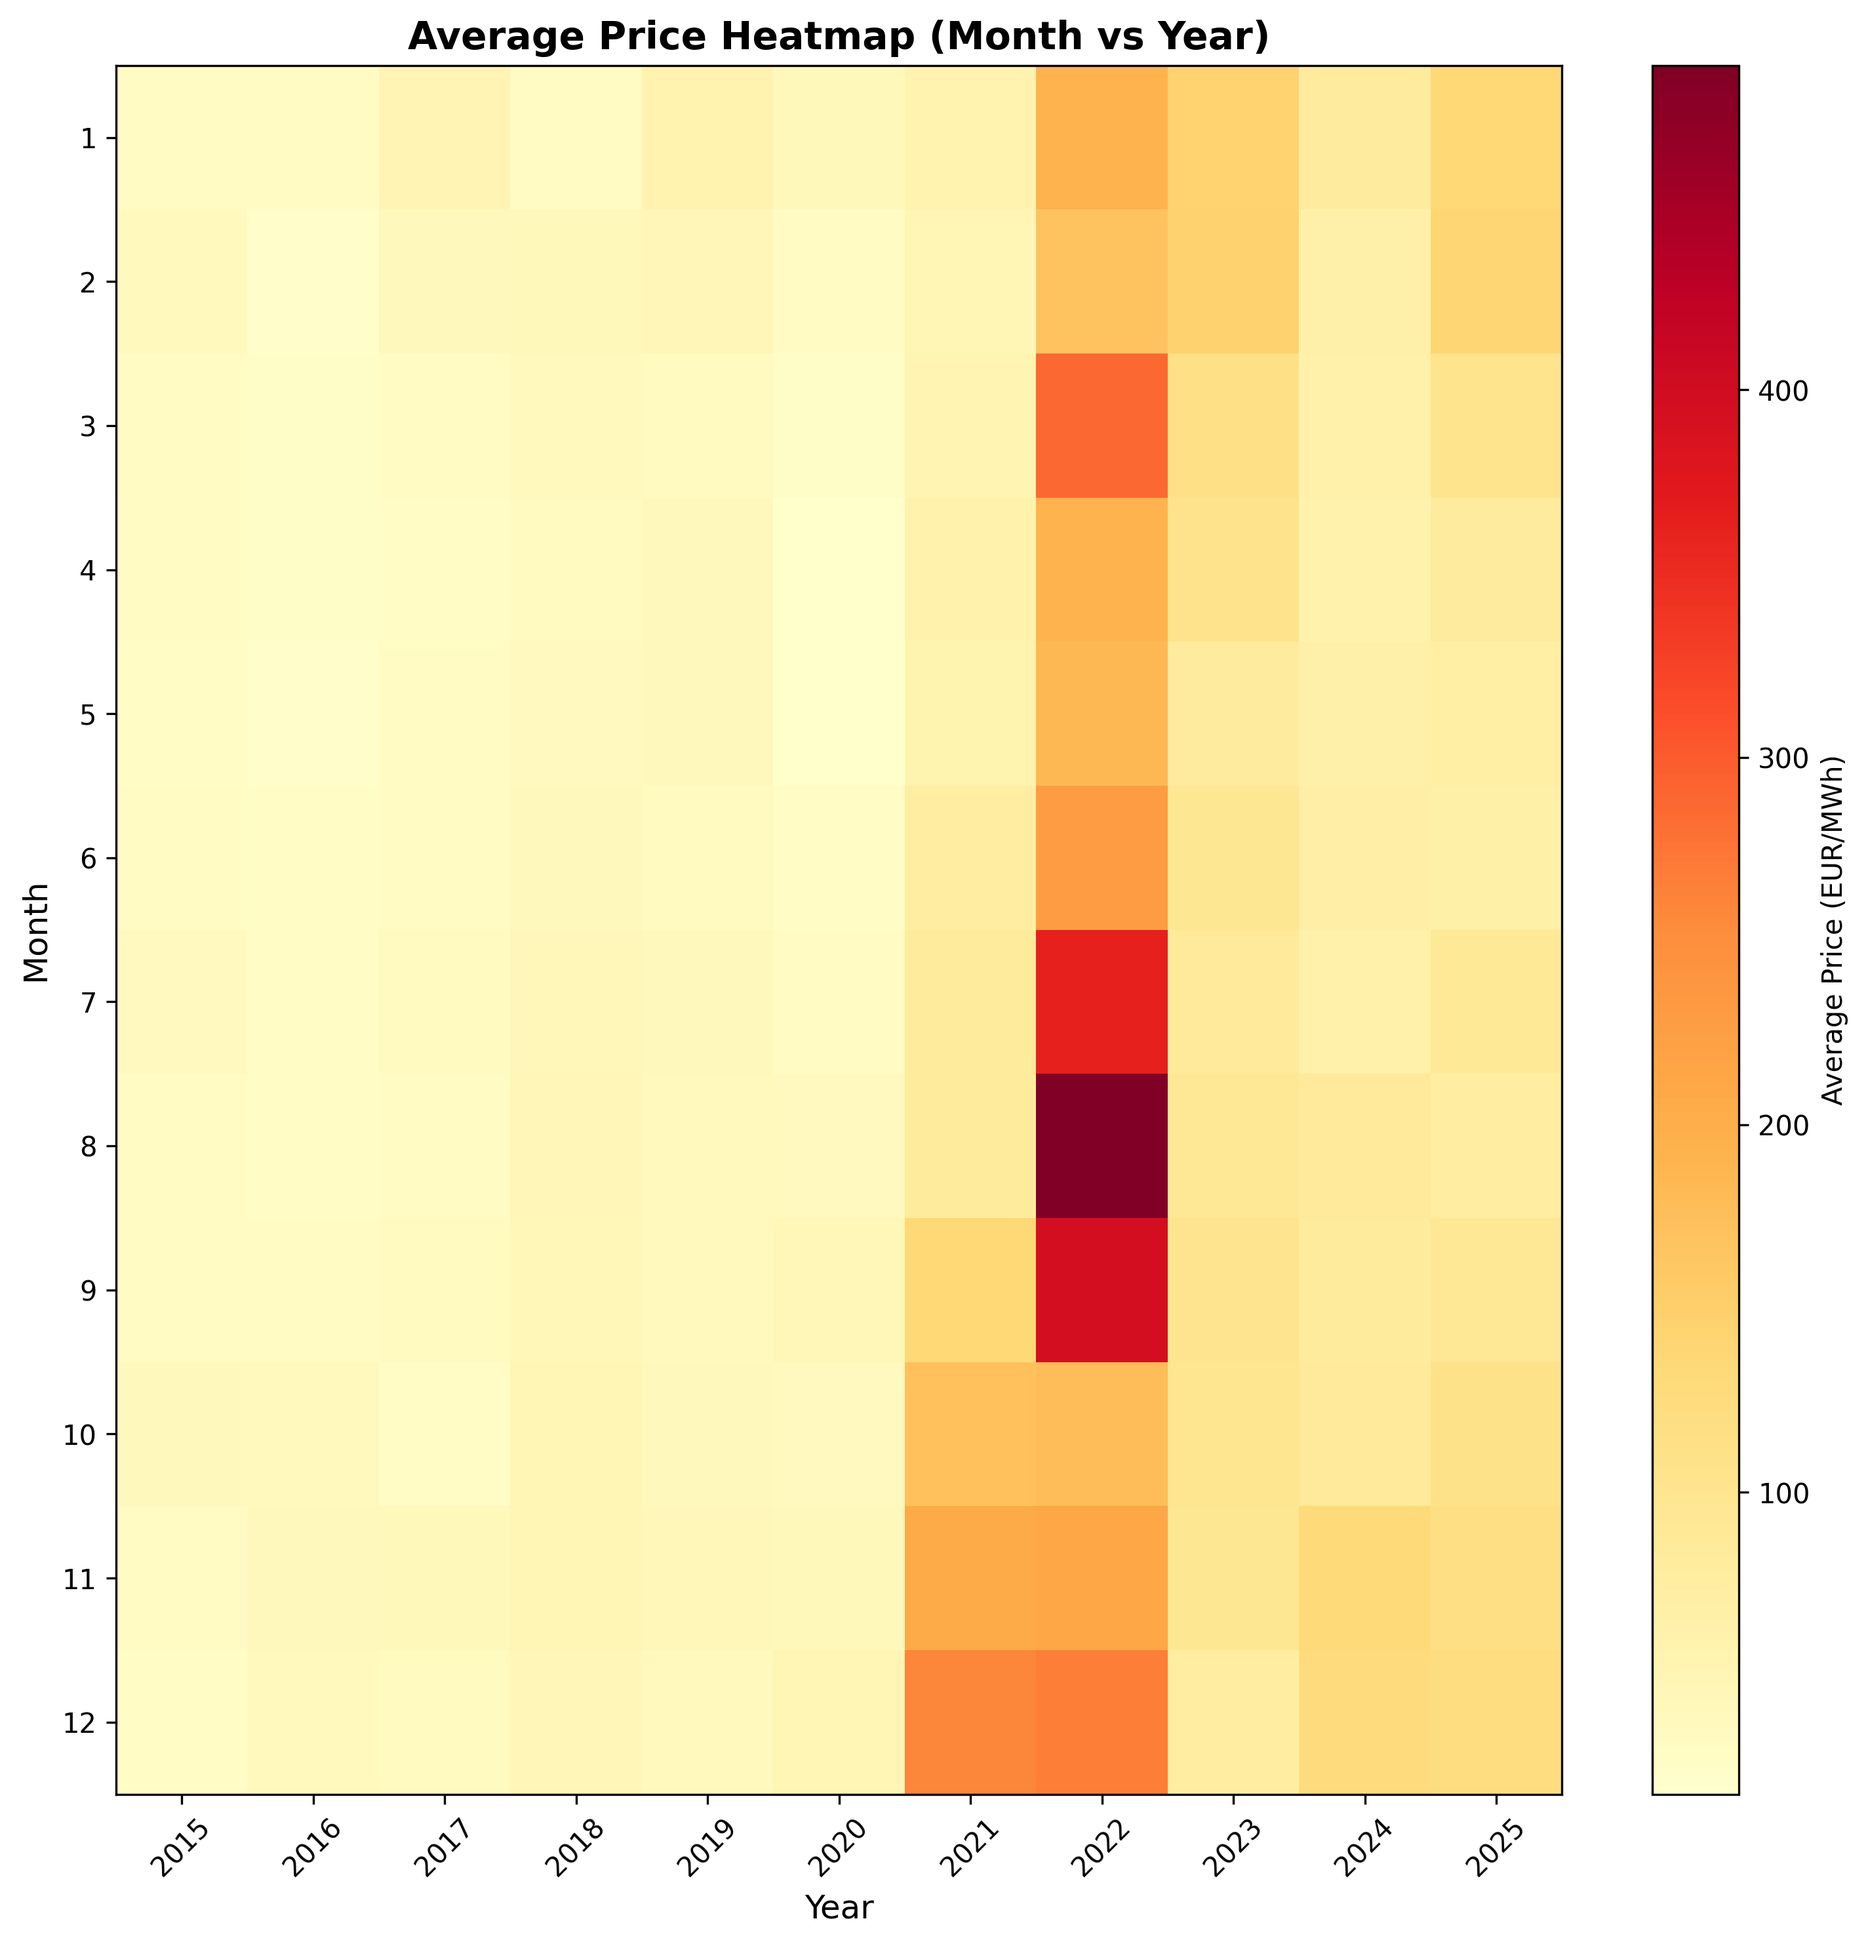
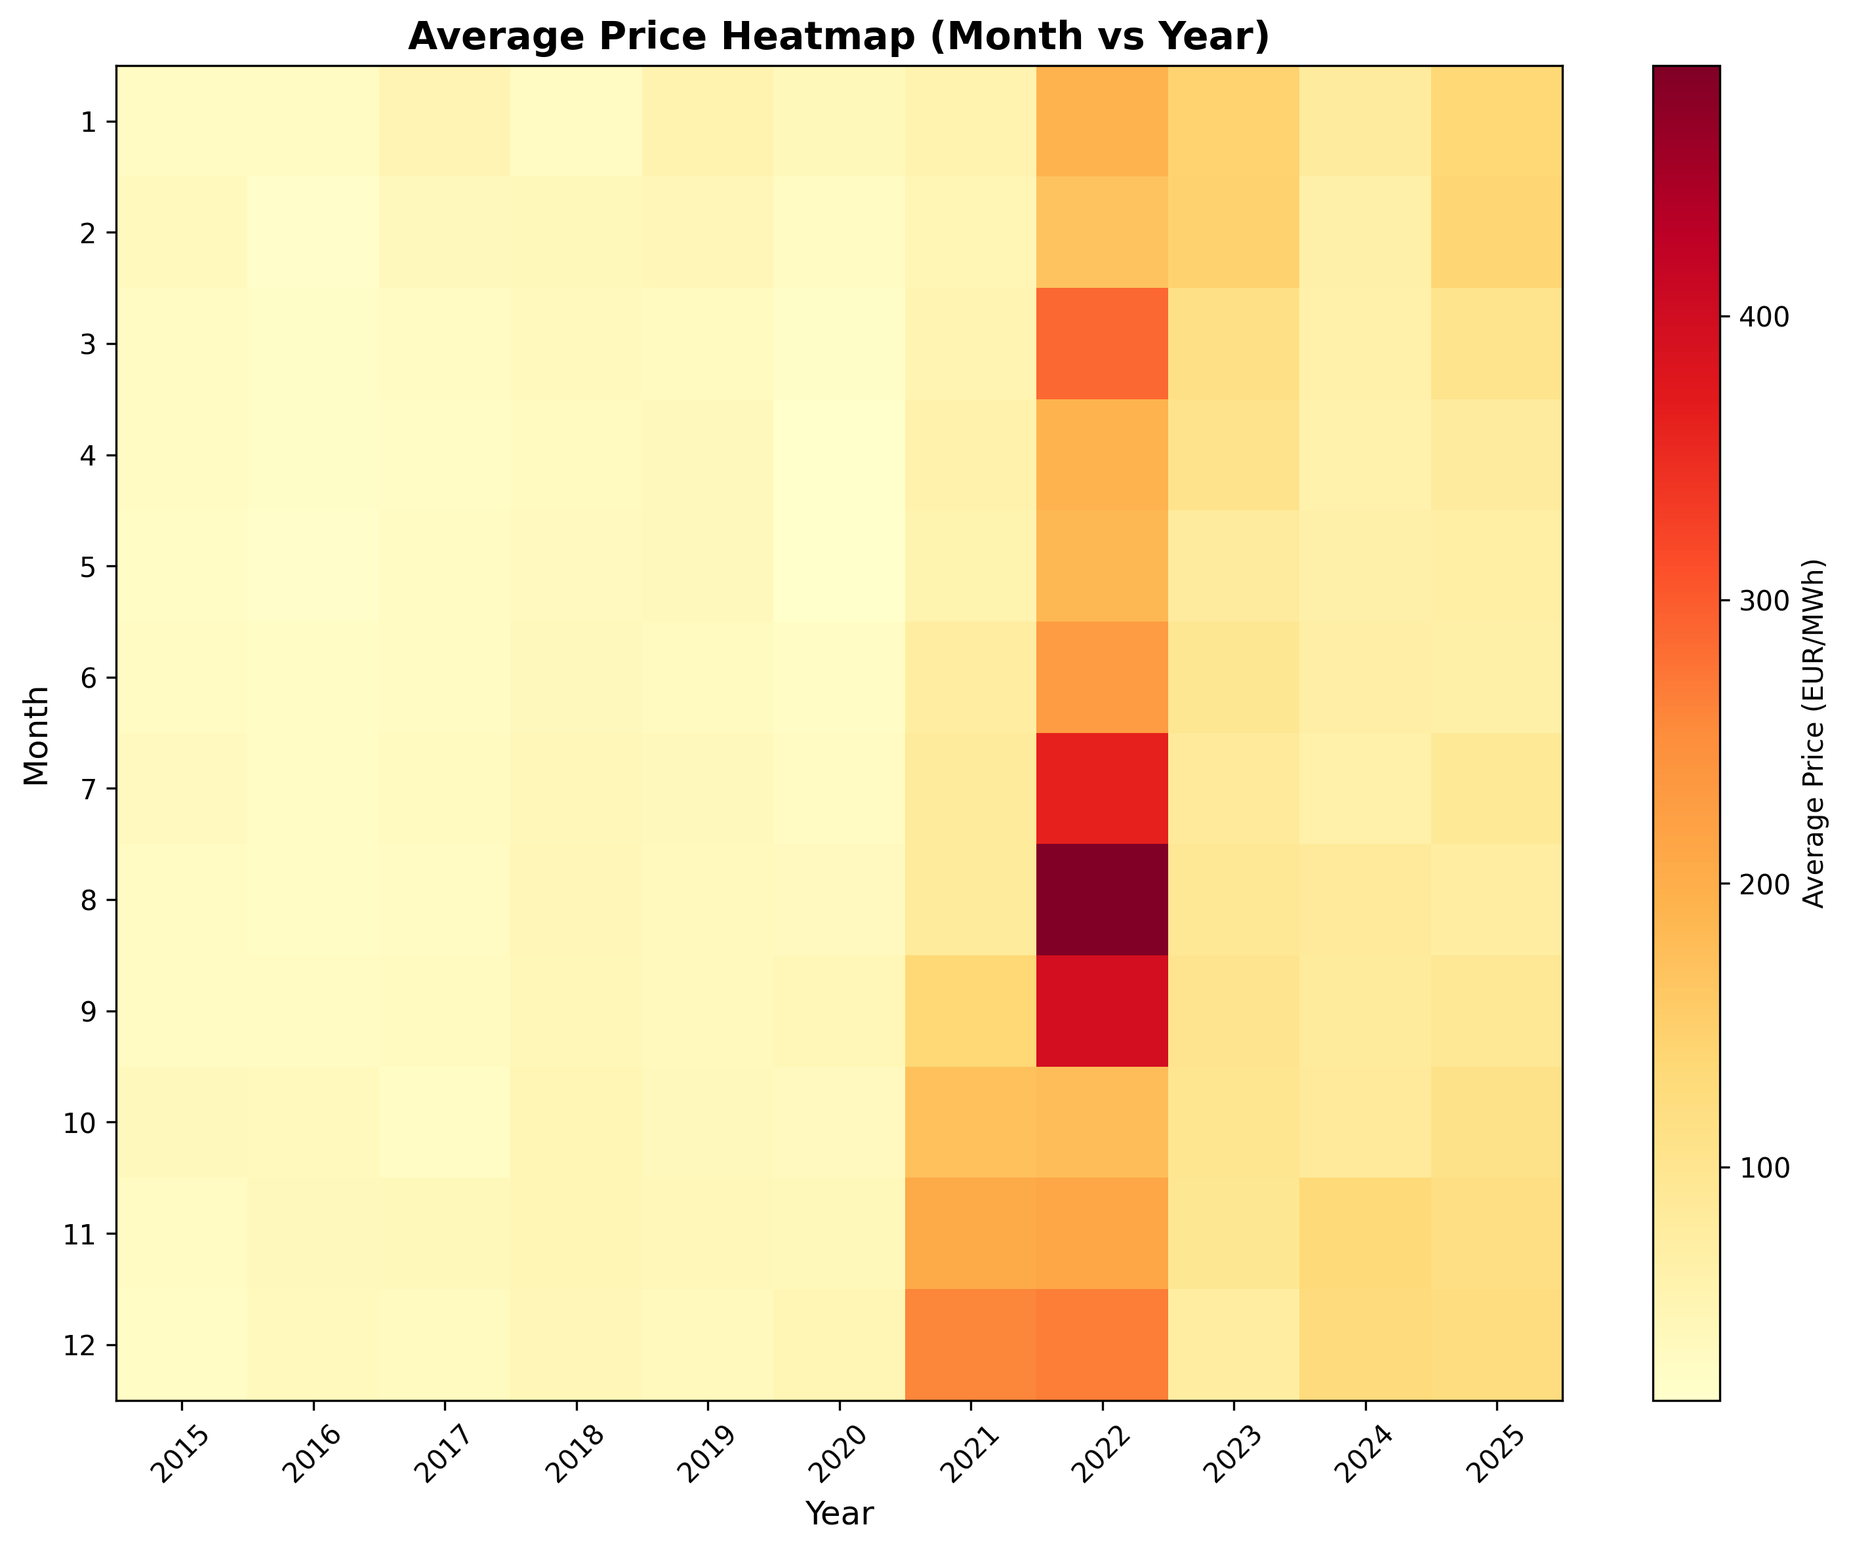
fixed heatmap scaling

diff --git a/code/utils/visualizations.py b/code/utils/visualizations.py
@@ -87,7 +87,7 @@ def plot_ground_truth_distribution(
 def plot_ground_truth_heatmap(
     start_val: str = DEFAULT_START_VAL_DATASET,
     end_val: str = FUTURE_END_VAL_VIS,
-    figsize=(10, 10)
+    figsize=(10, 8)
 ):
     plt.figure(figsize=figsize)
     gt = get_ground_truth(FREQ_MONTHLY, start_val, end_val)
